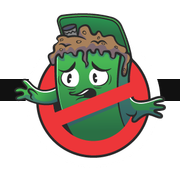
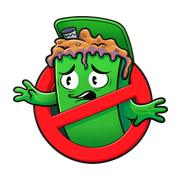
Redraw the mascot and bring in patterns from other Revvit builds
Mascot redrawn with thinner outlines and brighter colour; it now sits beside
the wordmark in the header, as a lit signal in the hero, and in the CTA band,
footer and app icons. Adds a two-tone headline and hero badge cards, and puts
the tab bar back on every screen size.

Claude-Session: https://claude.ai/code/session_01M9RXcqvEXW1FhGnX4Wdy1U

diff --git a/app/globals.css b/app/globals.css
@@ -92,7 +92,9 @@ strong { color: var(--ink); font-weight: 700; }
 .site-header { background: rgba(255, 255, 255, 0.94); -webkit-backdrop-filter: saturate(1.4) blur(14px); backdrop-filter: saturate(1.4) blur(14px); border-bottom: 1px solid var(--line); position: sticky; top: 0; z-index: 20; }
 .header-row { display: flex; align-items: center; gap: 36px; min-height: 72px; }
 .logo { display: flex; align-items: center; text-decoration: none; color: var(--ink); }
+.logo { gap: 10px; }
 .logo img { display: block; height: 44px; width: auto; }
+.logo .logo-mascot { height: 46px; width: auto; }
 .nav { display: flex; gap: 6px; }
 .nav a { color: var(--body); text-decoration: none; font-weight: 600; font-size: 0.94rem; padding: 8px 12px; border-radius: 8px; transition: background 0.15s ease, color 0.15s ease; }
 .nav a:hover { background: var(--sand); color: var(--ink); }
@@ -123,11 +125,16 @@ strong { color: var(--ink); font-weight: 700; }
 .hero .wrap { position: relative; z-index: 1; }
 .hero-grid { display: grid; grid-template-columns: minmax(0, 1.08fr) minmax(0, 1fr); gap: clamp(28px, 5vw, 72px); align-items: center; padding-top: clamp(44px, 6.5vw, 92px); padding-bottom: clamp(36px, 5vw, 72px); }
 .hero h1 { color: #fff; max-width: 17ch; }
+.hero h1 .accent { color: var(--green-on-night); display: inline-block; }
 .hero .lede { color: #c9d2ce; max-width: 50ch; }
 .hero .btn-ghost { color: #fff; border-color: rgba(255, 255, 255, 0.34); background: rgba(255, 255, 255, 0.04); }
 .hero .btn-ghost:hover { background: #fff; color: var(--ink); border-color: #fff; }
-.hero-rating { display: flex; align-items: center; gap: 12px; margin: 0; color: var(--on-night-muted); font-size: 0.95rem; }
-.hero-rating strong { color: #fff; }
+.hero-badges { list-style: none; margin: 0; padding: 0; display: flex; flex-wrap: wrap; gap: 12px; }
+.hero-badges li { display: flex; align-items: center; gap: 12px; padding: 11px 16px; border-radius: 12px; background: rgba(255, 255, 255, 0.06); border: 1px solid var(--night-line); -webkit-backdrop-filter: blur(8px); backdrop-filter: blur(8px); }
+.hero-badges li > svg { color: var(--green-on-night); }
+.hero-badges span:not(.stars) { display: flex; flex-direction: column; line-height: 1.25; }
+.hero-badges strong { color: #fff; font-family: var(--font-display); font-weight: 600; font-size: 0.95rem; }
+.hero-badges small { color: var(--on-night-muted); font-size: 0.82rem; }
 .stars { display: inline-flex; gap: 2px; color: var(--gold); vertical-align: middle; }
 
 .vet-badge { display: inline-flex; align-items: center; gap: 9px; margin: 0 0 22px; padding: 7px 14px 7px 11px; border-radius: 999px; border: 1px solid var(--line-strong); background: #fff; color: var(--ink); font-family: var(--font-mono), ui-monospace, monospace; font-weight: 500; font-size: 0.74rem; text-transform: uppercase; letter-spacing: 0.15em; line-height: 1; }
@@ -135,10 +142,14 @@ strong { color: var(--ink); font-weight: 700; }
 .hero .vet-badge { background: rgba(255, 255, 255, 0.07); border-color: rgba(255, 255, 255, 0.2); color: #fff; }
 .hero .vet-badge svg { color: var(--green-on-night); }
 
-.hero-visual { position: relative; display: grid; place-items: center; }
+.hero-visual { position: relative; display: grid; place-items: center; padding-top: clamp(40px, 7vw, 96px); }
+/* The mascot as a lit signal above the trailer (the logo-as-spotlight idea from the DiFiore Builders site) */
+.hero-signal { position: absolute; z-index: 2; left: 0; top: 0; width: clamp(130px, 17vw, 236px); aspect-ratio: 1; border-radius: 50%; display: grid; place-items: center; background: radial-gradient(circle, #ffffff 0%, #f3fbf4 52%, rgba(214, 245, 219, 0.9) 68%, rgba(190, 240, 198, 0) 72%); box-shadow: 0 0 70px 14px rgba(160, 235, 172, 0.32), 0 0 160px 50px rgba(127, 220, 139, 0.16); animation: signal 5s ease-in-out infinite; }
+.hero-signal img { width: 76%; height: auto; filter: none; max-width: none; }
+@keyframes signal { 0%, 100% { box-shadow: 0 0 70px 14px rgba(160, 235, 172, 0.32), 0 0 160px 50px rgba(127, 220, 139, 0.16); } 50% { box-shadow: 0 0 90px 22px rgba(160, 235, 172, 0.42), 0 0 190px 64px rgba(127, 220, 139, 0.2); } }
 .hero-visual::before { content: ""; position: absolute; left: 8%; right: 8%; bottom: 3%; height: 11%; background: radial-gradient(closest-side, rgba(0, 0, 0, 0.6), transparent); filter: blur(8px); }
-.hero-visual img { position: relative; width: 100%; max-width: 620px; height: auto; display: block; filter: drop-shadow(0 26px 34px rgba(0, 0, 0, 0.42)); }
-.hero-chip { position: absolute; left: 0; bottom: 6%; margin: 0; display: flex; align-items: center; gap: 10px; padding: 11px 16px; border-radius: 12px; background: rgba(19, 28, 25, 0.86); -webkit-backdrop-filter: blur(10px); backdrop-filter: blur(10px); border: 1px solid var(--night-line); color: #d5ddd9; font-size: 0.9rem; box-shadow: 0 14px 30px rgba(0, 0, 0, 0.36); }
+.hero-visual > img { position: relative; z-index: 1; width: 100%; max-width: 620px; height: auto; display: block; filter: drop-shadow(0 26px 34px rgba(0, 0, 0, 0.42)); }
+.hero-chip { position: absolute; z-index: 3; left: 0; bottom: 6%; margin: 0; display: flex; align-items: center; gap: 10px; padding: 11px 16px; border-radius: 12px; background: rgba(19, 28, 25, 0.86); -webkit-backdrop-filter: blur(10px); backdrop-filter: blur(10px); border: 1px solid var(--night-line); color: #d5ddd9; font-size: 0.9rem; box-shadow: 0 14px 30px rgba(0, 0, 0, 0.36); }
 .hero-chip svg { color: var(--green-on-night); }
 .hero-chip strong { color: #fff; font-family: var(--font-display); }
 
@@ -299,7 +310,9 @@ a.need:hover, button.need:hover { border-color: var(--ink); transform: translate
 
 /* ---- CTA band ---- */
 .cta-band { background: radial-gradient(46% 120% at 0% 100%, rgba(189, 30, 44, 0.2), transparent 70%), radial-gradient(46% 120% at 100% 0%, rgba(69, 177, 83, 0.2), transparent 70%), var(--night); color: #c9d2ce; padding: clamp(52px, 7vw, 88px) 0; border-bottom: 1px solid var(--night-line); }
-.cta-grid { display: flex; align-items: center; justify-content: space-between; gap: 28px 48px; flex-wrap: wrap; }
+.cta-grid { display: flex; align-items: center; gap: 28px 48px; flex-wrap: wrap; }
+.cta-grid > div:first-child { flex: 1 1 380px; }
+.cta-mascot { width: 150px; height: auto; order: -1; }
 .cta-band h2 { color: #fff; margin-bottom: 0.3em; }
 .cta-band p { margin: 0; }
 .cta-band .eyebrow { color: var(--green-on-night); margin-bottom: 14px; }
@@ -369,7 +382,7 @@ a.need:hover, button.need:hover { border-color: var(--ink); transform: translate
 .ask-human p { margin: 0; font-weight: 600; color: var(--ink); }
 .ask-human .row { margin: 12px 0 0; }
 
-/* ---- Tab bar (phones and tablets) ---- */
+/* ---- Tab bar (every screen size, as on the other Revvit builds) ---- */
 .tabbar { position: fixed; left: 0; right: 0; bottom: 0; z-index: 30; display: grid; grid-template-columns: repeat(5, 1fr); align-items: end; background: rgba(12, 19, 17, 0.94); -webkit-backdrop-filter: blur(16px); backdrop-filter: blur(16px); padding: 0 8px env(safe-area-inset-bottom); height: calc(var(--tabbar) + env(safe-area-inset-bottom)); border-top: 1px solid var(--night-line); }
 .tab { display: flex; flex-direction: column; align-items: center; justify-content: center; gap: 3px; height: var(--tabbar); color: #b3bdb9; text-decoration: none; font: inherit; font-size: 0.7rem; font-weight: 600; letter-spacing: 0.01em; background: none; border: 0; cursor: pointer; transition: color 0.15s ease; }
 .tab:hover { color: #fff; }
@@ -378,14 +391,12 @@ a.need:hover, button.need:hover { border-color: var(--ink); transform: translate
 .tab[aria-current="page"] .tab-icon { color: var(--green-on-night); }
 .tab-center { color: #fff; }
 .tab-center .tab-icon { width: 54px; height: 54px; margin-top: -22px; border-radius: 18px; background: var(--green); color: var(--ink) !important; border: 4px solid var(--night); box-shadow: 0 8px 20px rgba(69, 177, 83, 0.35); }
-/* Desktop has the header navigation, so the app bar is for phones and tablets only. */
-@media (min-width: 961px) { .tabbar { display: none; } }
+@media (min-width: 961px) { .tabbar { padding-left: calc((100vw - 620px) / 2); padding-right: calc((100vw - 620px) / 2); } }
 
 /* Install prompt */
 .install { position: fixed; left: 12px; right: 12px; bottom: calc(var(--tabbar) + env(safe-area-inset-bottom) + 14px); z-index: 25; max-width: 520px; margin: 0 auto; display: flex; gap: 12px; align-items: center; background: #fff; color: var(--body); border: 1px solid var(--line); border-radius: 16px; padding: 14px 8px 14px 18px; box-shadow: 0 18px 44px rgba(12, 19, 17, 0.24); }
 .install p { margin: 2px 0 0; font-size: 0.9rem; color: var(--muted); }
 .install > div { flex: 1; }
-@media (min-width: 961px) { .install { bottom: 20px; } }
 
 /* ---- Footer ---- */
 .site-footer { background: var(--night); color: var(--on-night-muted); padding: 64px 0 calc(28px + var(--tabbar) + env(safe-area-inset-bottom)); font-size: 0.94rem; }
@@ -399,11 +410,10 @@ a.need:hover, button.need:hover { border-color: var(--ink); transform: translate
 .footer-grid > div:first-child p { max-width: 38ch; }
 .footer-logo { display: flex; align-items: center; gap: 18px; margin-bottom: 22px; }
 .footer-logo img { display: block; height: 52px; width: auto; }
-.footer-logo .footer-mascot { height: 52px; width: 52px; }
+.footer-logo .footer-mascot { height: 64px; width: auto; order: -1; }
 .footer-h, .footer-vet { color: #fff; font-family: var(--font-mono), ui-monospace, monospace; font-weight: 500; font-size: 0.72rem; text-transform: uppercase; letter-spacing: 0.16em; }
 .footer-h { margin-bottom: 18px; }
 .footer-vet { display: inline-block; margin-bottom: 6px; color: var(--green-on-night); }
-@media (min-width: 961px) { .site-footer { padding-bottom: 28px; } }
 .copyright { margin-top: 48px; padding-top: 24px; font-size: 0.84rem; color: var(--on-night-muted); position: relative; }
 .copyright::before { content: ""; position: absolute; left: var(--pad); right: var(--pad); top: 0; height: 1px; background: var(--night-line); }
 
@@ -433,7 +443,12 @@ a.need:hover, button.need:hover { border-color: var(--ink); transform: translate
 @media (max-width: 560px) {
   body { font-size: 16.5px; }
   .header-row { gap: 12px; min-height: 62px; }
-  .logo img { height: 38px; }
+  .logo img { height: 36px; }
+  .logo .logo-mascot { height: 38px; }
+  .logo { gap: 7px; }
+  .site-header .btn-sm { padding: 8px 13px; }
+  .cta-mascot { width: 96px; align-self: center; }
+  .hero-badges li { flex: 1 1 auto; padding: 10px 12px; gap: 10px; }
   .header-cta .phone { display: none; }
   .hero .row .btn, .cta-band .row .btn, .page-head .row .btn { flex: 1 1 100%; }
   .hero-chip { position: static; margin-top: 14px; justify-self: start; }

diff --git a/app/page.tsx b/app/page.tsx
@@ -5,6 +5,7 @@ import Link from "next/link";
 import { ArrowRight, BugOff, CalendarCheck, CalendarDays, CalendarSync, Check, CircleHelp, Home as HomeIcon, MapPin, ShieldCheck, Smartphone, Sparkles, Thermometer, Users, Wind } from "lucide-react";
 import { AskButton } from "@/components/ask";
 import Image from "next/image";
+import { Mascot } from "@/components/logo";
 
 const needs = [
   { label: "Monthly cleaning", sub: `$${plans[0].price}/month, 1 bin`, href: "/book?plan=monthly", Icon: CalendarSync },
@@ -19,7 +20,7 @@ const needs = [
 const benefitIcons = [ShieldCheck, Wind, BugOff, Smartphone];
 
 const trust = [
-  { Icon: ShieldCheck, label: "Veteran-owned", sub: "20 years U.S. Air Force" },
+  { Icon: Sparkles, label: "Sanitized and deodorized", sub: "Inside and out, every visit" },
   { Icon: Thermometer, label: "200°F water", sub: "Kills about 99% of bacteria" },
   { Icon: CalendarCheck, label: "No need to be home", sub: "We come after trash pickup" },
   { Icon: MapPin, label: "Local to the Emerald Coast", sub: "Okaloosa, Walton and Santa Rosa" },
@@ -39,7 +40,9 @@ export default function Home() {
         <div className="wrap hero-grid">
           <div className="hero-copy">
             <VeteranBadge />
-            <h1>Veteran-owned trash can cleaning on the Emerald Coast</h1>
+            <h1>
+              Veteran-owned trash can cleaning <span className="accent">on the Emerald Coast</span>
+            </h1>
             <p className="lede">
               We clean, sanitize and deodorize your trash and recycling bins right at the curb with 200° water.
               Plans start at $20 a month.
@@ -48,14 +51,27 @@ export default function Home() {
               <BookButton />
               <CallButton />
             </div>
-            <p className="hero-rating">
-              <Stars size={16} />
-              <span>
-                <strong>{reviewSummary.rating}</strong> on Google from {reviewSummary.count} local reviews
-              </span>
-            </p>
+            <ul className="hero-badges">
+              <li>
+                <Stars size={15} />
+                <span>
+                  <strong>{reviewSummary.rating} on Google</strong>
+                  <small>{reviewSummary.count} local reviews</small>
+                </span>
+              </li>
+              <li>
+                <ShieldCheck aria-hidden size={22} />
+                <span>
+                  <strong>Veteran-owned</strong>
+                  <small>20 years U.S. Air Force</small>
+                </span>
+              </li>
+            </ul>
           </div>
           <div className="hero-visual">
+            <div className="hero-signal" aria-hidden="true">
+              <Mascot size={230} priority />
+            </div>
             <Image
               src="/brand/trailer.png"
               alt="The Bin Busters cleaning trailer with its lift tipping a trash can into the wash bay"

diff --git a/components/ui.tsx b/components/ui.tsx
@@ -1,7 +1,6 @@
 import Link from "next/link";
 import { brand, faqs as allFaqs, plans, reviewSummary, reviewUrl, reviews, steps, towns, type Faq } from "@/content/site";
-import Image from "next/image";
-import { Logo } from "@/components/logo";
+import { Logo, Mascot } from "@/components/logo";
 import { ReviewCarousel } from "@/components/review-carousel";
 import { ArrowRight, Check, ChevronDown, Droplets, MapPin, MousePointerClick, Phone, Sparkles, Star as StarIcon } from "lucide-react";
 
@@ -21,6 +20,7 @@ function HeaderBar() {
     <header className="site-header">
       <div className="wrap header-row">
         <Link href="/" className="logo" aria-label={`${brand.name} home`}>
+          <Mascot size={46} priority className="logo-mascot" />
           <Logo priority />
         </Link>
         <nav aria-label="Main" className="nav">
@@ -192,6 +192,7 @@ export function CtaBand() {
           <BookButton />
           <CallButton />
         </div>
+        <Mascot size={150} sticker className="cta-mascot" />
       </div>
     </section>
   );
@@ -218,7 +219,7 @@ export function Footer() {
         <div>
           <p className="footer-logo">
             <Logo height={52} onDark />
-            <Image src="/brand/mascot.png" alt="" width={52} height={53} className="footer-mascot" />
+            <Mascot size={64} sticker className="footer-mascot" />
           </p>
           <p><strong className="footer-vet">Veteran-owned &amp; operated</strong><br />Family-run trash can cleaning on Florida's Emerald Coast, owned by a 20-year U.S. Air Force veteran.</p>
           <p>

diff --git a/components/logo.tsx b/components/logo.tsx
@@ -15,13 +15,15 @@ export function Logo({ height = 44, priority = false, onDark = false }: { height
   );
 }
 
-export function Mascot({ size = 267, priority = false, className }: { size?: number; priority?: boolean; className?: string }) {
+// Redrawn 2026-11-12 from the original mascot: same character, thinner even outlines, brighter colour.
+// `sticker` adds a white keyline so it holds on dark surfaces. Decorative by default (alt="").
+export function Mascot({ size = 267, priority = false, className, sticker = false, alt = "" }: { size?: number; priority?: boolean; className?: string; sticker?: boolean; alt?: string }) {
   return (
     <Image
-      src="/brand/mascot.png"
-      alt="The Bin Busters mascot, a slimy trash can inside a no symbol"
+      src={sticker ? "/brand/mascot-sticker.png" : "/brand/mascot.png"}
+      alt={alt}
       width={size}
-      height={Math.round((size * 272) / 267)}
+      height={Math.round((size * 725) / 760)}
       priority={priority}
       className={className}
     />

diff --git a/app/og/route.tsx b/app/og/route.tsx
@@ -21,7 +21,7 @@ export async function GET(req: Request) {
           <div style={{ display: "flex", fontSize: 28, color: "#7fdc8b" }}>Veteran-owned · From $20/month · {brand.phone}</div>
         </div>
         <div style={{ display: "flex", alignItems: "center", justifyContent: "center", flex: 1 }}>
-          <img src={mascot} width={340} height={346} alt="" />
+          <img src={mascot} width={340} height={324} alt="" />
         </div>
       </div>
     ),

diff --git a/CLAUDE.md b/CLAUDE.md
@@ -7,7 +7,8 @@
 - 2026-11-09: Matthew (Revvit, pro bono) decided to replace the franchisor's one-page GoHighLevel site with this Next.js site on the same domain. Jarrett Gordon owns the business and opted out of the franchise agreement (starter package only).
 - 2026-11-09: This repo is the **live site**, not a prototype, so indexing follows `VERCEL_ENV` (production indexed, previews and `*.vercel.app` noindex) instead of a `SITE_INDEXING` switch. The client audit lives in `docs/AUDIT.md` and is not rendered in the app (customers would see it).
 - 2026-11-09: Brand recovered from the old site: colours, fonts, logo, mascot, step illustrations, before/after photos and trailer photo (self-hosted in `public/brand/`, captured via Chrome since the CDN is blocked from the sandbox). Matthew confirmed Jarrett owns them. Primary buttons are green 45B153 with black text (6.9:1).
-- 2026-11-12: Visual redesign after Matthew found the first version childish. Brand red and green are kept, but on a deep pine-black and warm paper with red as an accent only. Type is Archivo (headings), Public Sans (body) and IBM Plex Mono (labels). The mascot appears only in the footer and app icons; the cartoon step illustrations, halftone band and soap bubbles are gone and Lucide icons replace them. The hero uses the real trailer photo. The tab bar shows on phones and tablets only. Tokens and contrast notes are at the top of `app/globals.css`.
+- 2026-11-12: Visual redesign after Matthew found the first version childish. Brand red and green are kept, but on a deep pine-black and warm paper with red as an accent only. Type is Archivo (headings), Public Sans (body) and IBM Plex Mono (labels). Cartoon step illustrations, halftone band and soap bubbles are gone; Lucide icons replace them. Tokens and contrast notes are at the top of `app/globals.css`.
+- 2026-11-12: Matthew likes the mascot logo but found its lines bulky and dull, so it was redrawn (same character, thinner outlines, brighter colour) with an AI image edit of the original; `public/brand/mascot.png` is the new one and `mascot-sticker.png` adds a white keyline for dark surfaces. It sits in the header beside the wordmark, as a lit "signal" in the hero, in the CTA band, footer and app icons. Matthew asked for the best parts of his other builds: the logo-as-spotlight comes from difiorebuilders.com; the two-tone headline, hero badge cards and tab bar on every screen size come from goodmanfl.com and tron-electric.
 - 2026-11-09: Booking still finishes in Jobber (Jarrett's existing client hub). The funnel captures the request first (`/api/pipeline`) and offers a prefilled text to Jarrett so no lead depends on a backend.
 - DNS cutover not done yet: needs Matthew's go-ahead. Old values for rollback: `A @ 162.159.140.166`, `CNAME www sites.ludicrous.cloud`. New: `A @ 216.150.1.1`, `CNAME www cc53ae1b859741ae.vercel-dns-016.com`.
 

diff --git a/README.md b/README.md
@@ -57,7 +57,7 @@ Business facts (phone, email, prices, towns, ZIPs, FAQs) live in `content/site.t
 | `/llms.txt`, `/sitemap.xml`, `/robots.txt`, `/og` | Machine-readable files and share images |
 | Ask (tab bar) | Scripted answers from the FAQ and prices; anything else goes to call or text |
 
-App shell: manifest with shortcuts, service worker (`public/sw.js`, production only, network-first pages, `/offline.html` fallback), install prompt from the second visit or after a request, bottom tab bar on phones and tablets with Book raised in the centre (desktop uses the header navigation).
+App shell: manifest with shortcuts, service worker (`public/sw.js`, production only, network-first pages, `/offline.html` fallback), install prompt from the second visit or after a request, bottom tab bar on every screen size with Book raised in the centre.
 
 ## Real vs stubbed
 
